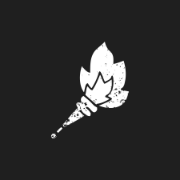
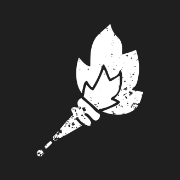
Chore: PWA improvements

Changed region(s): [[0.1944, 0.1389, 0.8056, 0.8889]]

diff --git a/pts/web/Screens/Account/Install.tsx b/pts/web/Screens/Account/Install.tsx
@@ -1,0 +1,54 @@
+import { Share, SquarePlus } from "lucide-react";
+import { motion } from "motion/react";
+import type { ReactNode } from "react";
+
+import { Torch } from "../../Components/Layout";
+
+// iOS only lets an installed web app keep its session, push notifications and full screen
+export const mustInstall = /iphone|ipad|ipod/i.test(navigator.userAgent) && !matchMedia("(display-mode: standalone)").matches && !(navigator as Navigator & { standalone?: boolean }).standalone;
+
+function Step({ n, children }: { n: number; children: ReactNode }) {
+
+  return (
+
+    <li className="flex items-start gap-4">
+
+      <span className="flex size-9 shrink-0 items-center justify-center rounded-xl border border-line bg-raised text-[15px] font-medium">{n}</span>
+      <span className="pt-1.5 text-[15px] leading-relaxed text-dim">{children}</span>
+
+    </li>
+
+  );
+
+}
+
+export function Install() {
+
+  return (
+
+    <div className="flex h-full items-center justify-center overflow-y-auto px-6 py-[max(24px,env(safe-area-inset-top))]">
+
+      <motion.div initial={{ opacity: 0, y: 12 }} animate={{ opacity: 1, y: 0 }} transition={{ duration: 0.3, ease: "easeOut" }} className="flex w-full max-w-sm flex-col gap-8">
+
+        <div className="flex flex-col items-center gap-4 text-center">
+
+          <Torch size={64} />
+          <h1 className="m-0 font-serif text-[34px] font-normal">Install Prometheus</h1>
+
+        </div>
+
+        <ol className="m-0 flex list-none flex-col gap-5 rounded-2xl border border-line bg-panel p-6">
+
+          <Step n={1}>Tap <Share size={16} className="mx-0.5 mb-1 inline text-fg" /> <strong className="font-medium text-fg">Share</strong> in Safari’s toolbar</Step>
+          <Step n={2}>Scroll down and tap <SquarePlus size={16} className="mx-0.5 mb-1 inline text-fg" /> <strong className="font-medium text-fg">Add to Home Screen</strong></Step>
+          <Step n={3}>Tap <strong className="font-medium text-fg">Add</strong>, then open Prometheus from your Home Screen</Step>
+
+        </ol>
+
+      </motion.div>
+
+    </div>
+
+  );
+
+}

diff --git a/pts/web/Screens/Account/Settings.tsx b/pts/web/Screens/Account/Settings.tsx
@@ -113,7 +113,7 @@ export class Settings extends Component<{ onCookie: () => void; onSignOut: () =>
 
           <div className="mx-auto flex w-full max-w-2xl flex-col gap-9 px-[23px] py-6 md:px-8">
 
-            <Section title="Boodle" description={account?.set ? "Connected" : "Paste your Boodle cookie"}>
+            <Section title="Boodle" description={account?.set ? "Connected" : "Not Connected"}>
 
               <div className="flex gap-2">
 
@@ -126,7 +126,7 @@ export class Settings extends Component<{ onCookie: () => void; onSignOut: () =>
 
             <Section
               title="Notifications"
-              description={push ? "On" : "Off"}
+              description="Get pinged when agents need you"
               action={push ? undefined : <Button onClick={() => this.attempt(async () => { await enablePush(); this.setState({ push: true }); }, "Notifications on")}>Turn on</Button>}
             />
 
@@ -134,13 +134,13 @@ export class Settings extends Component<{ onCookie: () => void; onSignOut: () =>
 
               <Section
                 title="Model"
-                description="For new agents"
+                description="New agents use this by default"
                 action={<Select label="Model for new agents" value={this.state.defaultModel ?? ""} options={this.state.models.map((model) => ({ value: model.id, label: model.name }))} onChange={this.chooseModel} />}
               />
 
             )}
 
-            <Section title="About you" description="Shared with every agent">
+            <Section title="About you" description="Context for agents to respond better">
 
               <textarea rows={6} value={this.state.user} aria-label="About you" placeholder="Name, time zone, how you like answers…" onChange={(event) => { const text = event.target.value; this.setState({ user: text }); this.saver.queue("user", () => api("/user", "PUT", { text })); }} className={inputClass} />
 

diff --git a/pts/web/Scripts/icons.ts b/pts/web/Scripts/icons.ts
@@ -13,11 +13,11 @@ const GROUND = "#1F1F1F";
 
 const ICONS = [
 
-  // maskable icons are cropped to a circle by some launchers, so the torch keeps to the middle half
-  { file: "icons/icon-192.png", size: 192, scale: 0.6, ground: GROUND },
-  { file: "icons/icon-512.png", size: 512, scale: 0.6, ground: GROUND },
-  { file: "icons/icon-maskable-512.png", size: 512, scale: 0.5, ground: GROUND },
-  { file: "brand/apple-touch-icon.png", size: 180, scale: 0.6, ground: GROUND },
+  // maskable icons are cropped to a circle by some launchers, so the torch keeps inside the 80% safe zone
+  { file: "icons/icon-192.png", size: 192, scale: 0.82, ground: GROUND },
+  { file: "icons/icon-512.png", size: 512, scale: 0.82, ground: GROUND },
+  { file: "icons/icon-maskable-512.png", size: 512, scale: 0.66, ground: GROUND },
+  { file: "brand/apple-touch-icon.png", size: 180, scale: 0.82, ground: GROUND },
   { file: "brand/logo.png", size: 128, scale: 1, ground: "transparent" },
 
 ];

diff --git a/pts/web/Screens/Account/Login.tsx b/pts/web/Screens/Account/Login.tsx
@@ -40,9 +40,9 @@ export class Login extends Component<{ onDone: () => void }, { token: string; er
 
         </div>
 
-        <Field label="Access token" hint={this.state.error || "The PTS_TOKEN your server was started with."}>
+        <Field>
 
-          <input type="password" autoComplete="current-password" autoFocus value={this.state.token} onChange={(event) => this.setState({ token: event.target.value })} className={inputClass} />
+          <input type="password" placeholder="Access token" autoComplete="current-password" autoFocus value={this.state.token} onChange={(event) => this.setState({ token: event.target.value })} className={inputClass} />
 
         </Field>
 

diff --git a/pts/web/App/App.tsx b/pts/web/App/App.tsx
@@ -2,6 +2,7 @@ import { motion, MotionConfig } from "motion/react";
 import { Component } from "react";
 
 import { Torch } from "../Components/Layout";
+import { Install, mustInstall } from "../Screens/Account/Install";
 import { Login } from "../Screens/Account/Login";
 import { Settings } from "../Screens/Account/Settings";
 import { Chat } from "../Screens/Agent/Chat";
@@ -343,6 +344,12 @@ export class App extends Component<{}, AppState> {
   render() {
 
     const { authed, route, wide, agents, account } = this.state;
+
+    if (mustInstall) {
+
+      return <Install />;
+
+    }
 
     if (authed === null) {
 

diff --git a/pts/web/Components/Controls.tsx b/pts/web/Components/Controls.tsx
@@ -47,13 +47,13 @@ export function IconButton({ label, children, ...props }: ButtonHTMLAttributes<H
 
 }
 
-export function Field({ label, hint, children }: { label: string; hint?: string; children: ReactNode }) {
+export function Field({ label, hint, children }: { label?: string; hint?: string; children: ReactNode }) {
 
   return (
 
     <label className="flex flex-col gap-2">
 
-      <span className="text-[14px] text-dim">{label}</span>
+      {label && <span className="text-[14px] text-dim">{label}</span>}
       {children}
       {hint && <span className="text-[13px] text-dim">{hint}</span>}
 

diff --git a/pts/web/Screens/Agent/Chat.tsx b/pts/web/Screens/Agent/Chat.tsx
@@ -25,7 +25,7 @@ class Work extends Component<{ steps: Step[]; seconds: number; live: boolean }, 
 
     return (
 
-      <div className="flex flex-col gap-1 self-start">
+      <div className="flex max-w-full min-w-0 flex-col gap-1 self-start wrap-anywhere">
 
         <button type="button" aria-expanded={this.state.open} onClick={() => this.setState({ open: !this.state.open })} className="flex items-center gap-2 py-1 text-[14px] text-dim hover:text-fg">
 

diff --git a/pts/web/Screens/Home/Home.tsx b/pts/web/Screens/Home/Home.tsx
@@ -108,7 +108,6 @@ export function Home({ agents, account, selected }: HomeProps) {
             <a href="#/new" className="mx-6 flex flex-col gap-1 py-3 no-underline">
 
               <span className="font-serif text-[21px]">No agents yet.</span>
-              <span className="text-[15px] text-dim">Create one — give it a name and a model.</span>
 
             </a>
 

diff --git a/pts/web/Components/Layout.tsx b/pts/web/Components/Layout.tsx
@@ -73,7 +73,7 @@ export function Section({ title, description, action, children }: SectionProps) 
 
     <section className="flex flex-col gap-3">
 
-      <div className="flex items-center gap-4">
+      <div className="flex items-center gap-4 mb-0.5">
 
         <div className="flex min-w-0 grow flex-col gap-0.5">
 

diff --git a/pts/web/Styles/index.css b/pts/web/Styles/index.css
@@ -24,6 +24,14 @@ body,
 
 }
 
+/* iOS rubber-bands the page even when nothing overflows */
+html {
+
+  overscroll-behavior-block: none !important;
+  overscroll-behavior-inline: none !important;
+
+}
+
 body {
 
   margin: 0;
